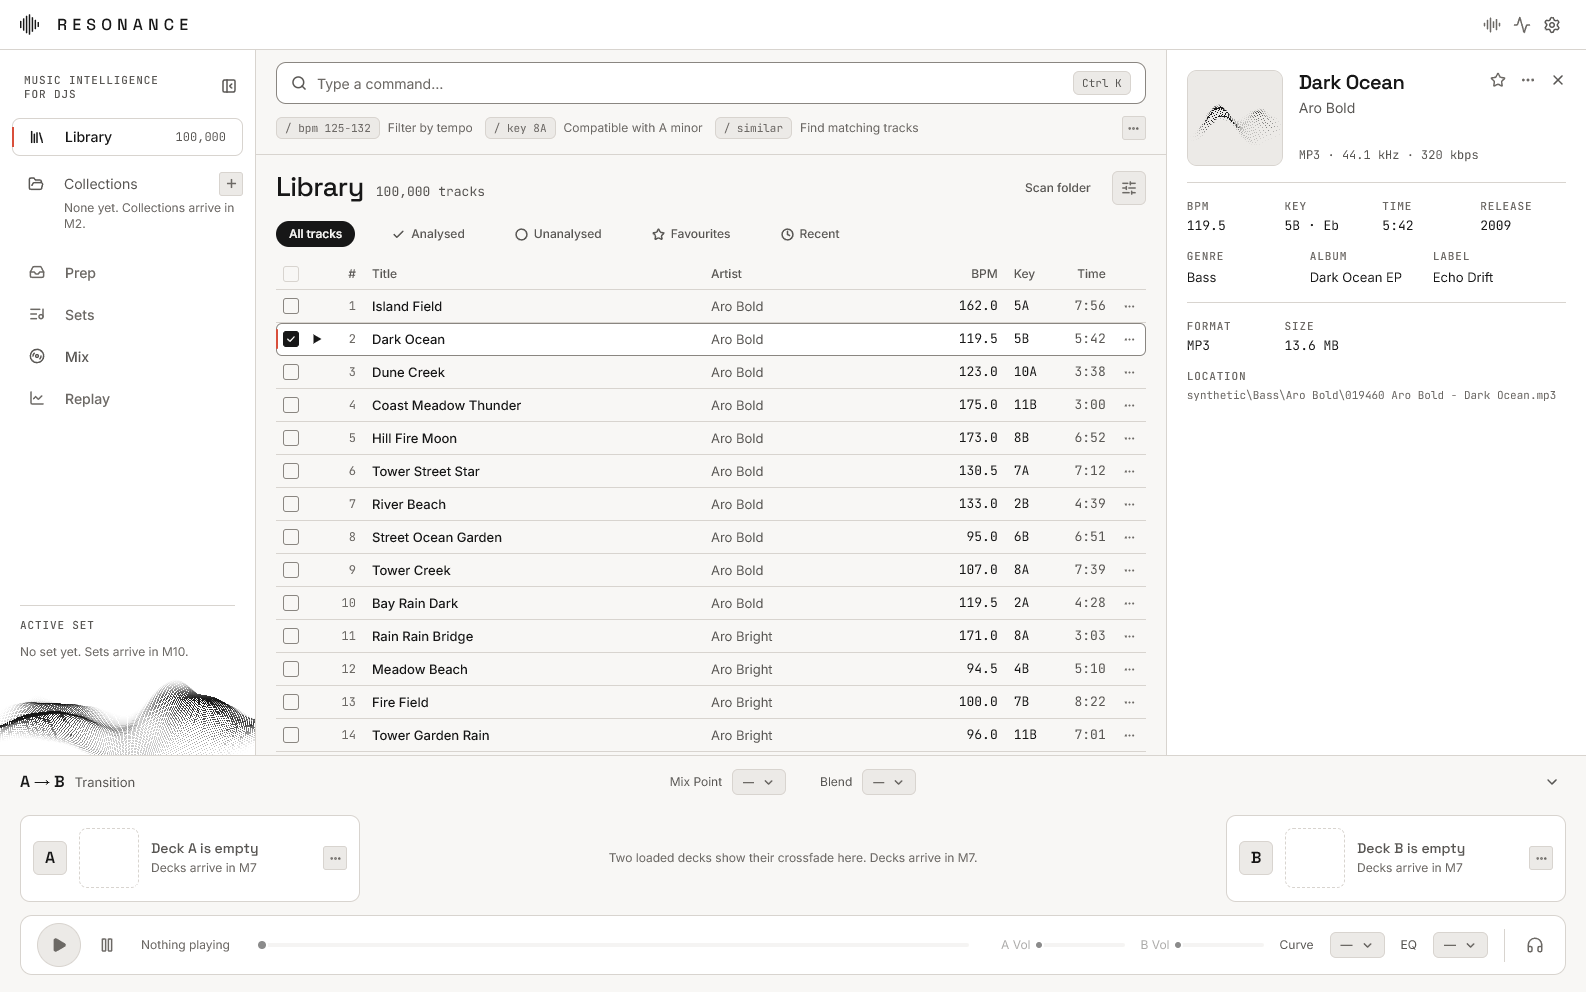
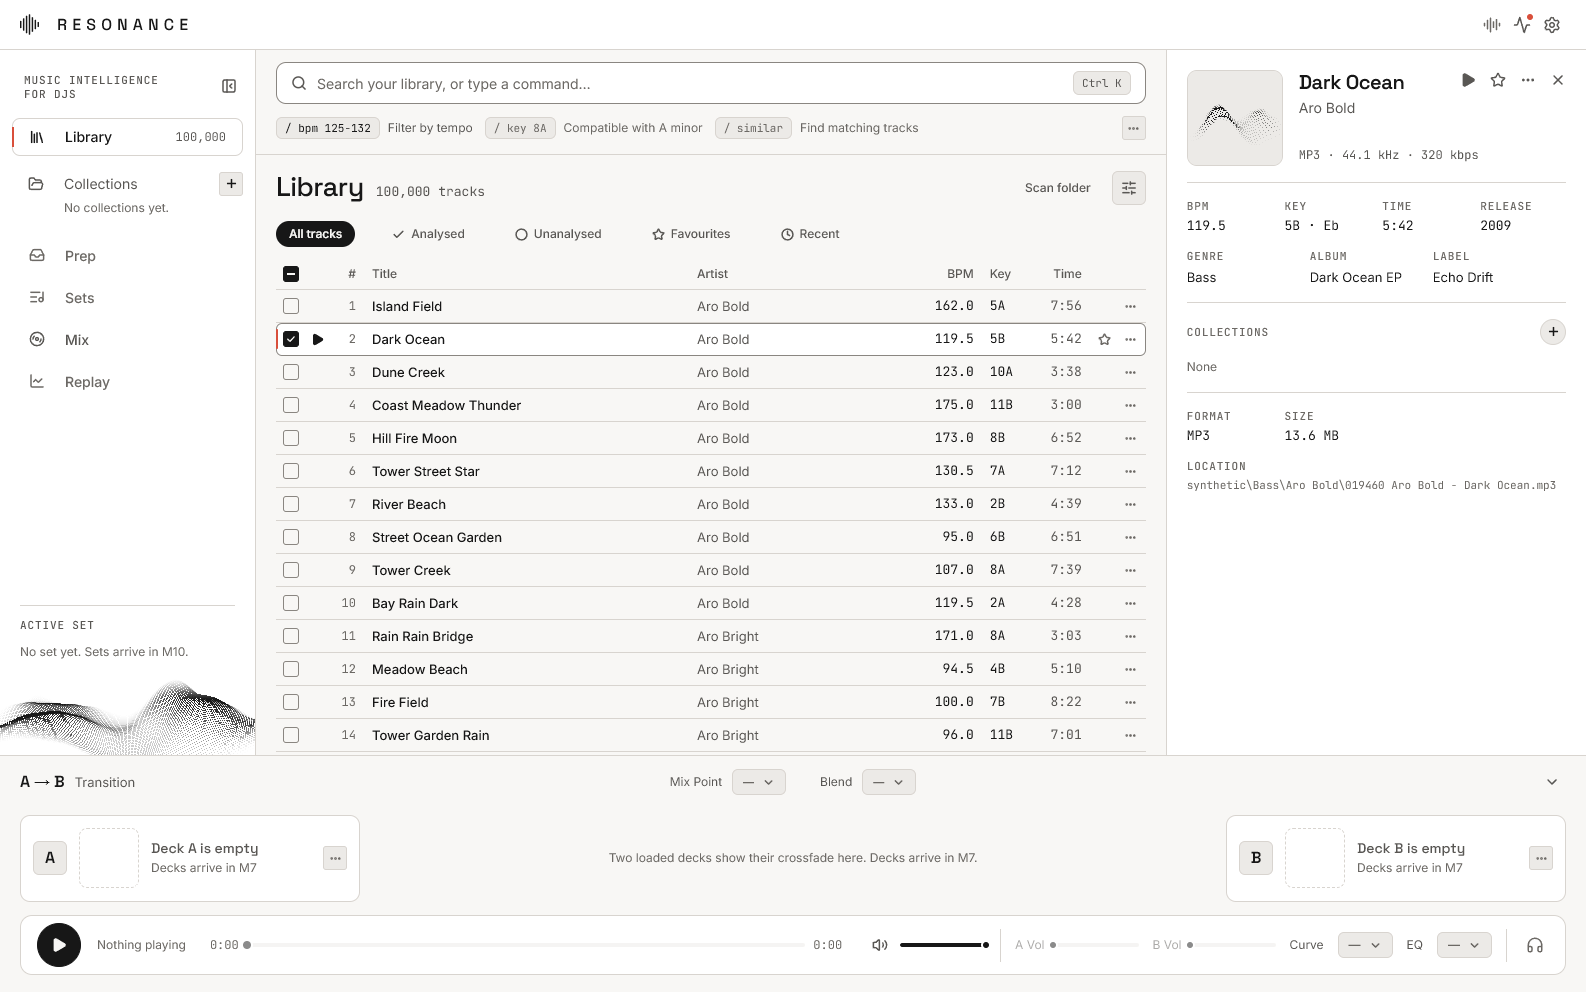
chore(release): prepare v0.3.0 (#118)

diff --git a/ui/dev/bench.ts b/ui/dev/bench.ts
@@ -308,6 +308,9 @@ async function durationSeconds(page: Page, name: string): Promise<number> {
 /** Loads the first MP3 not already used that is long enough for every run, and returns it. */
 async function loadLongTrack(page: Page, name: string, skip: string[]): Promise<string> {
   const choice = page.getByRole('combobox', { name: `Track on ${name}` });
+  // Mix loads after the click and fills its track list from the core, and reading the options
+  // does not wait for either.
+  await choice.locator('option').nth(1).waitFor({ state: 'attached' });
   const tracks = await choice
     .locator('option')
     .evaluateAll((options) => options.map((option) => (option as HTMLOptionElement).value));

diff --git a/docs/benchmarks/budgets-v0.3.0.md b/docs/benchmarks/budgets-v0.3.0.md
@@ -1,0 +1,129 @@
+# Budgets at v0.3.0
+
+Every budget in [architecture.md](../architecture.md#performance-budgets), measured on 18 November 2026 by `just bench`. It runs `ui/dev/bench.ts` for everything that needs a window, then `resonance bench` for the audio and this record. [ADR 0011](../adr/0011-bench-in-the-page-and-the-cli.md) says how each figure is taken.
+
+| Budget | Result | Measured |
+| --- | --- | --- |
+| Cold start to a usable library, under 1.5 s | Met | 0.48 s at the longest of 5 launches, 100,000 tracks |
+| Library table, 100,000 rows, fast scroll: median at the refresh rate, no frame over 16 ms | Met | 61 missed frames in 6,000, longest 12.2 ms |
+| Mix view: median at the refresh rate, 99th percentile within two intervals, no frame over 16 ms | Met | 99th percentile 12.1 ms, longest 12.3 ms, 62 missed frames in 6,000, 1401 by 276 canvas |
+| Text search, under 50 ms | Met | 25.4 ms at the worst 95th percentile across search, filter and sort queries on 100,000 tracks, measured apart from `just bench` in [library-table.md](library-table.md) |
+| UI thread never blocked for more than 16 ms | Missed | Longest task 20.2 ms, while the desktop app starts |
+| Audio stable at a 256-sample buffer or smaller, no dropouts in an hour | Not yet shown | 256-frame period, 0 dropouts in 180 s |
+| Idle memory with the library open, under 400 MB | Met | 136 MB private working set, 424 MB working set |
+| Wave component, under 1 ms of UI-thread time per frame | Met | Longest 0.5 ms in 3,000 frames |
+
+Two budgets are not met yet and carry over to `v0.4.0`. The startup task is [#55](https://github.com/BradHudsonGrant/RESONANCE/issues/55) and the hour at a 256-sample buffer is [#47](https://github.com/BradHudsonGrant/RESONANCE/issues/47).
+
+## Machine and versions
+
+| | |
+| --- | --- |
+| Processor | Intel(R) Core(TM) Ultra 9 285H, 16 logical cores |
+| Memory | 63 GB |
+| System | Windows 11 Pro, build 26300 |
+| Graphics in the desktop app | ANGLE (NVIDIA, NVIDIA GeForce RTX 5090 Laptop GPU (0x00002C58) Direct3D11 vs_5_0 ps_5_0, D3D11) |
+| Graphics in Edge | ANGLE (NVIDIA, NVIDIA GeForce RTX 5090 Laptop GPU (0x00002C58) Direct3D11 vs_5_0 ps_5_0, D3D11) |
+| Display | 6.1 ms a frame, about 164 Hz |
+| Audio device | Speakers (3- ADAM Audio D3V ), 48 kHz |
+| Resonance | 0.3.0, commit 6384bbc with uncommitted changes |
+| Rust | rustc 1.100.0 (0ef1bc386 2026-11-09) |
+| WebView2 | 157.0.4341.60 |
+| Edge | 157.0.4341.60 |
+| Node | v24.13.1 |
+
+## Cold start
+
+From starting `resonance-app.exe` to the first filled rows of a 100,000-track library, with its files already in the disk cache. The table marks the moment its first rows fill, and the bench reads the mark three seconds later, so attaching to the page adds nothing. The marked rows are painted in the frame that follows.
+
+| Launch | To the page starting | To filled rows |
+| --- | --- | --- |
+| First, with a new webview profile | 0.37 s | 0.52 s |
+| 1 | 0.32 s | 0.47 s |
+| 2 | 0.33 s | 0.47 s |
+| 3 | 0.35 s | 0.48 s |
+| 4 | 0.30 s | 0.47 s |
+| 5 | 0.30 s | 0.48 s |
+
+The budget is judged on the numbered launches. The first launch after an install also makes the webview's profile.
+
+## Library table
+
+Five runs of `measureTableScroll()` in the desktop app at 1440 by 900 CSS pixels and a device pixel ratio of 1.25, as in [library-table.md](library-table.md). Each pass is a fling or a run of jumps. A frame is missed when it lasts more than one and a half display frames.
+
+| Run | Pass | Median frame | 99th percentile | Longest frame | Missed frames | Frames with a loading row |
+| --- | --- | --- | --- | --- | --- | --- |
+| 1 | Fling | 6.1 ms | 6.2 ms | 12.1 ms | 1 | 0 |
+| 1 | Jumps | 6.1 ms | 12.1 ms | 12.2 ms | 11 | 549 |
+| 2 | Fling | 6.1 ms | 12.0 ms | 12.2 ms | 6 | 0 |
+| 2 | Jumps | 6.1 ms | 12.1 ms | 12.2 ms | 14 | 535 |
+| 3 | Fling | 6.1 ms | 6.3 ms | 12.1 ms | 1 | 0 |
+| 3 | Jumps | 6.1 ms | 6.2 ms | 12.2 ms | 5 | 528 |
+| 4 | Fling | 6.1 ms | 6.2 ms | 12.2 ms | 1 | 0 |
+| 4 | Jumps | 6.1 ms | 12.0 ms | 12.2 ms | 8 | 528 |
+| 5 | Fling | 6.1 ms | 12.1 ms | 12.2 ms | 11 | 0 |
+| 5 | Jumps | 6.1 ms | 6.3 ms | 12.2 ms | 3 | 526 |
+
+After the last jump, every rendered row was filled in 41.4, 53.7, 60.1, 51.4, 23.1 ms.
+
+## Mix view
+
+Five runs of `measureMix()` in a headed Edge window with a page of 1418 by 810 CSS pixels at a device pixel ratio of 1.25 and a canvas of 1401 by 276, while both decks played two MP3s from `fixtures-local`. The method is in [mix-view.md](mix-view.md). The view runs against `resonance serve` for now, so it is measured in the browser and not in the desktop app.
+
+| Run | Refresh | 99th percentile | Longest | Missed | View, longest | Callbacks | Underruns | Longest callback |
+| --- | --- | --- | --- | --- | --- | --- | --- | --- |
+| 1 | 6.1 ms | 12.1 ms | 12.2 ms | 17 | 0.2 ms | 736 | 0 | 0.2 ms |
+| 2 | 6.1 ms | 6.3 ms | 12.2 ms | 5 | 0.3 ms | 728 | 0 | 0.1 ms |
+| 3 | 6.1 ms | 6.2 ms | 12.2 ms | 6 | 0.2 ms | 728 | 0 | 0.2 ms |
+| 4 | 6.1 ms | 12.0 ms | 12.2 ms | 12 | 0.2 ms | 734 | 0 | 0.0 ms |
+| 5 | 6.1 ms | 12.1 ms | 12.3 ms | 22 | 0.2 ms | 740 | 0 | 0.0 ms |
+
+Late callbacks, starved callbacks and stream errors across the runs: 0.
+
+## UI thread
+
+The longest task on the page's main thread in a Chromium trace. Tracing adds a little to every task, so these are upper bounds.
+
+| While | Longest task |
+| --- | --- |
+| The desktop app starts, traced for its first 5 s | 20.2 ms |
+| The desktop app scrolls the table once and draws the wave for 600 frames | 14.0 ms |
+| The Mix view in Edge draws 1,200 frames with both decks playing | 1.1 ms |
+
+## Audio
+
+Both decks played the same two MP3s through the default output device for 180 s, with no page open. The counts come from the audio callback, as in [mix-view.md](mix-view.md).
+
+| | |
+| --- | --- |
+| Mode | Exclusive |
+| Period | 256 frames, 256 asked for |
+| Device buffer | 256 frames |
+| Callbacks | 33,764 |
+| Frames asked for in a callback | 256 to 256 |
+| Underruns | 0 (0 frames) |
+| Late callbacks | 0 |
+| Starved callbacks | 0 |
+| Stream errors | 0 |
+| Longest callback | 0.3 ms |
+
+## Memory
+
+The desktop app and every process under it: the webview's browser, GPU, renderer and helper processes. The private working set counts each process's own pages and leaves out pages it shares. The working set adds shared pages once for every process that maps them.
+
+| When | Processes | Private working set | Working set |
+| --- | --- | --- | --- |
+| Idle with the library open, 10 s after launch | 7 | 136 MB | 424 MB |
+| After the scroll and wave runs | 8 | 372 MB | 730 MB |
+
+## Wave
+
+Five runs of `measureWave()` in the desktop app, as in [wave.md](wave.md). The page's timer reads in steps of 0.1 ms, so 0.0 means under 0.1 ms.
+
+| Run | Median | 99th percentile | Longest |
+| --- | --- | --- | --- |
+| 1 | 0.0 ms | 0.1 ms | 0.2 ms |
+| 2 | 0.0 ms | 0.1 ms | 0.2 ms |
+| 3 | 0.0 ms | 0.1 ms | 0.2 ms |
+| 4 | 0.0 ms | 0.1 ms | 0.1 ms |
+| 5 | 0.0 ms | 0.1 ms | 0.5 ms |

diff --git a/README.md b/README.md
@@ -22,20 +22,21 @@ Most DJs will keep playing on their own hardware. Resonance is where they prepar
 
 - Watched music folders with per-subfolder toggles and an editable ignore list (`SourcesSettings.svelte` and `notify` filesystem watching), scanning read-only into SQLite (`WAL` mode) across MP3, FLAC, WAV, AIFF and M4A (`AAC` and `ALAC`, including files carrying stray leading ID3v2 headers).
 - Track and asset identity by BLAKE3 byte hash, full-scale `i32` decoded-audio hash (`symphonia` gapless + stream checksum verification) and 120-second Chromaprint (`rusty-chromaprint`), keeping track identity intact when files are renamed, moved or retagged outside the app, with missing-file flagging and one-click or manual relinking across moved or re-encoded copies.
+- A persistent Activity queue for scans and identity work that survives restarts, with progress, cancel and retry, and chunked scanning that keeps a 3,000-file scan responsive.
 - Instant SQLite `FTS5` text search, filter drawer (`BPM`, key, year, label, format and missing files), quick pills (`All tracks`, `Favourites`, `Recent`), sortable columns and manual `track_id`-keyed collections across a virtualised 100,000-track table (`4.2 ms` median frame at 240 Hz, `<= 25.4 ms` p95 search and filter queries, `0.42 s` warm cold start).
 - Track preview playback in `PlayerBar` (`rubato` sinc resampler feeding a lock-free ring buffer with a 5 ms ramp, interactive `ScrubBar` seeking and automatic Mix handoff), alongside a track inspector showing seeded dot-wave artwork, tags, Camelot key, format specs and file location.
-- Two-deck Mix view playing audio through WASAPI with scrolling WebGL2 peak and RMS waveforms, binary playhead and meter telemetry, and 0 audio underruns across three-minute full-window runs.
+- Two-deck Mix view playing audio through WASAPI with scrolling WebGL2 peak and RMS waveforms, binary playhead and meter telemetry, and 0 audio underruns across three-minute full-window runs. Exclusive mode runs at a 256-frame buffer (5.3 ms at 48 kHz) with 0 dropouts in the `v0.3.0` bench.
 - Full M1 design system in dark, light and Windows high-contrast themes (`tokens.css` and 25 Svelte 5 primitives, shown side by side at `/design.html`), keyboard navigation (`Ctrl+K`, `1`–`5`, `[`, `I`, `D`, `Space`, `C`, arrow and selection keys), and browser hot reload against a local Rust core without rebuilding Rust for UI changes.
 
 ## Status
 
-`M0 Foundations` (`v0.1.0`) and `M1 Design` (`v0.2.0`) are complete, and `M2 Library` (`v0.3.0`) is nearly done: watched source folders with subfolder toggles (`#81`), decoded-audio hash and Chromaprint identity (`#83`), `FTS5` search, filters and column sort (`#91`), manual collections (`#94`), preview playback (`#97`), and missing-file relinking (`#98`) have all landed on `master`, leaving the persistent Activity job queue (`#90`) and the remaining M2 budgets (`#55`, `#47`) before `v0.3.0`.
+`M0 Foundations` (`v0.1.0`), `M1 Design` (`v0.2.0`) and `M2 Library` (`v0.3.0`) are complete. M2 added watched source folders with subfolder toggles (`#81`), decoded-audio hash and Chromaprint identity (`#83`), `FTS5` search, filters and column sort (`#91`), manual collections (`#94`), preview playback (`#97`), missing-file relinking (`#98`) and a persistent Activity job queue with chunked scanning (`#101`). Two budgets carry over to `v0.4.0`: the startup UI-thread task (`#55`) and an hour-long clean run at a 256-sample audio buffer (`#47`).
 
 After `M2`, the roadmap builds identification and tag writing (`M3`), quality checks and journaled file replacement (`M4`), beat/key/energy/phrase analysis (`M5`), similarity and natural-language discovery (`M6`), full deck controls and hardware mappings (`M7`), live mix coaching (`M8`), session replay (`M9`), set building (`M10`), rekordbox and Engine DJ library sync (`M11`), and stems (`M12`). Every checklist item and its evidence live in [docs/roadmap.md](docs/roadmap.md).
 
 ## Install
 
-Windows x64 installers (`Resonance_0.2.0_x64-setup.exe`, and [`v0.1.0`](https://github.com/BradHudsonGrant/RESONANCE/releases/tag/v0.1.0)) are attached as pre-releases on the [GitHub releases page](https://github.com/BradHudsonGrant/RESONANCE/releases). Running the setup installs Resonance for the current user at `%LOCALAPPDATA%\Resonance\resonance-app.exe`.
+Windows x64 installers (`Resonance_0.3.0_x64-setup.exe`, and [`v0.2.0`](https://github.com/BradHudsonGrant/RESONANCE/releases/tag/v0.2.0) and [`v0.1.0`](https://github.com/BradHudsonGrant/RESONANCE/releases/tag/v0.1.0) before it) are attached as pre-releases on the [GitHub releases page](https://github.com/BradHudsonGrant/RESONANCE/releases). Running the setup installs Resonance for the current user at `%LOCALAPPDATA%\Resonance\resonance-app.exe`.
 
 To build the installer from source instead, install the prerequisites under [Build](#build), run `npm ci --prefix ui`, and run:
 
@@ -120,7 +121,7 @@ That writes `target/release/bundle/nsis/Resonance_<version>_x64-setup.exe` with 
 
 ## Stack
 
-Rust workspace (`core`, `db`, `library`, `engine`, `api`, `cli`, `fixtures`), Tauri 2 on WebView2, Svelte 5 in strict TypeScript, SQLite (`WAL` + `FTS5`), `cpal` on WASAPI, `symphonia`, `lofty`, and custom WebGL2 waveform and dot-wave renderers. Windows first, with macOS and Linux planned on a bundled Chromium runtime (`M12`).
+Rust workspace (`core`, `db`, `library`, `engine`, `jobs`, `api`, `cli`, `fixtures`), Tauri 2 on WebView2, Svelte 5 in strict TypeScript, SQLite (`WAL` + `FTS5`), `cpal` on WASAPI, `symphonia`, `lofty`, and custom WebGL2 waveform and dot-wave renderers. Windows first, with macOS and Linux planned on a bundled Chromium runtime (`M12`).
 
 ## Licence
 

diff --git a/CHANGELOG.md b/CHANGELOG.md
@@ -2,6 +2,34 @@
 
 Every release, newest first. Made from the commit history with git-cliff.
 
+## 0.3.0, 18 November 2026
+
+### Added
+
+- Add source subfolder toggles and watching ([#81](https://github.com/BradHudsonGrant/RESONANCE/pull/81))
+- Identify tracks by audio hash and fingerprint ([#83](https://github.com/BradHudsonGrant/RESONANCE/pull/83))
+- Add FTS5 search, filter drawer and column sort ([#91](https://github.com/BradHudsonGrant/RESONANCE/pull/91))
+- Add manual collections in sidebar and table ([#94](https://github.com/BradHudsonGrant/RESONANCE/pull/94))
+- Add preview playback in PlayerBar ([#97](https://github.com/BradHudsonGrant/RESONANCE/pull/97))
+- Flag missing files and relink moved copies ([#98](https://github.com/BradHudsonGrant/RESONANCE/pull/98))
+- Add persistent Activity queue and chunked scan ([#101](https://github.com/BradHudsonGrant/RESONANCE/pull/101))
+
+### Fixed
+
+- Coalesce live search and guard asset_fts deletes ([#93](https://github.com/BradHudsonGrant/RESONANCE/pull/93))
+- Move row star off play slot and polish menus ([#96](https://github.com/BradHudsonGrant/RESONANCE/pull/96))
+
+### Faster
+
+- Mount secondary shell regions after the first frame ([#102](https://github.com/BradHudsonGrant/RESONANCE/pull/102))
+- Support 256-sample low-latency audio buffer ([#105](https://github.com/BradHudsonGrant/RESONANCE/pull/105))
+
+### Docs
+
+- Mark M1 v0.2.0 release complete ([#79](https://github.com/BradHudsonGrant/RESONANCE/pull/79))
+- Add grid snapping, DJ cues and crest factor ([#85](https://github.com/BradHudsonGrant/RESONANCE/pull/85))
+- Add MIT licence and prepare public docs ([#100](https://github.com/BradHudsonGrant/RESONANCE/pull/100))
+
 ## 0.2.0, 15 November 2026
 
 ### Added

diff --git a/docs/benchmarks/build-times.md b/docs/benchmarks/build-times.md
@@ -4,6 +4,15 @@ Clean and incremental builds of the Rust workspace in the dev profile. `just bui
 
 Machine: Core Ultra 9 285H, 64 GB RAM, Windows 11 Pro, rustc 1.100.0. Real-time antivirus scanning is on and the build folder is inside the repo with no exclusion.
 
+## 18 November 2026, M2 at v0.3.0
+
+| Build | Time |
+| --- | --- |
+| Clean dev build | 131.1 s (138.8, 130.7, 131.1) |
+| After a change in `core` | 4.6 s (4.6, 4.4, 4.6) |
+
+The workspace is now eight crates plus the Tauri shell, with Tauri, `symphonia`, `cpal`, `rusty-chromaprint`, `rubato` and `notify` under it. A change in `core` rebuilds every crate that depends on it and relinks the binaries. The edit-and-reload loop for UI work needs no Rust build, so these figures only bear on core changes.
+
 ## 13 November 2026, M0 with three crates
 
 | Build | Time |
